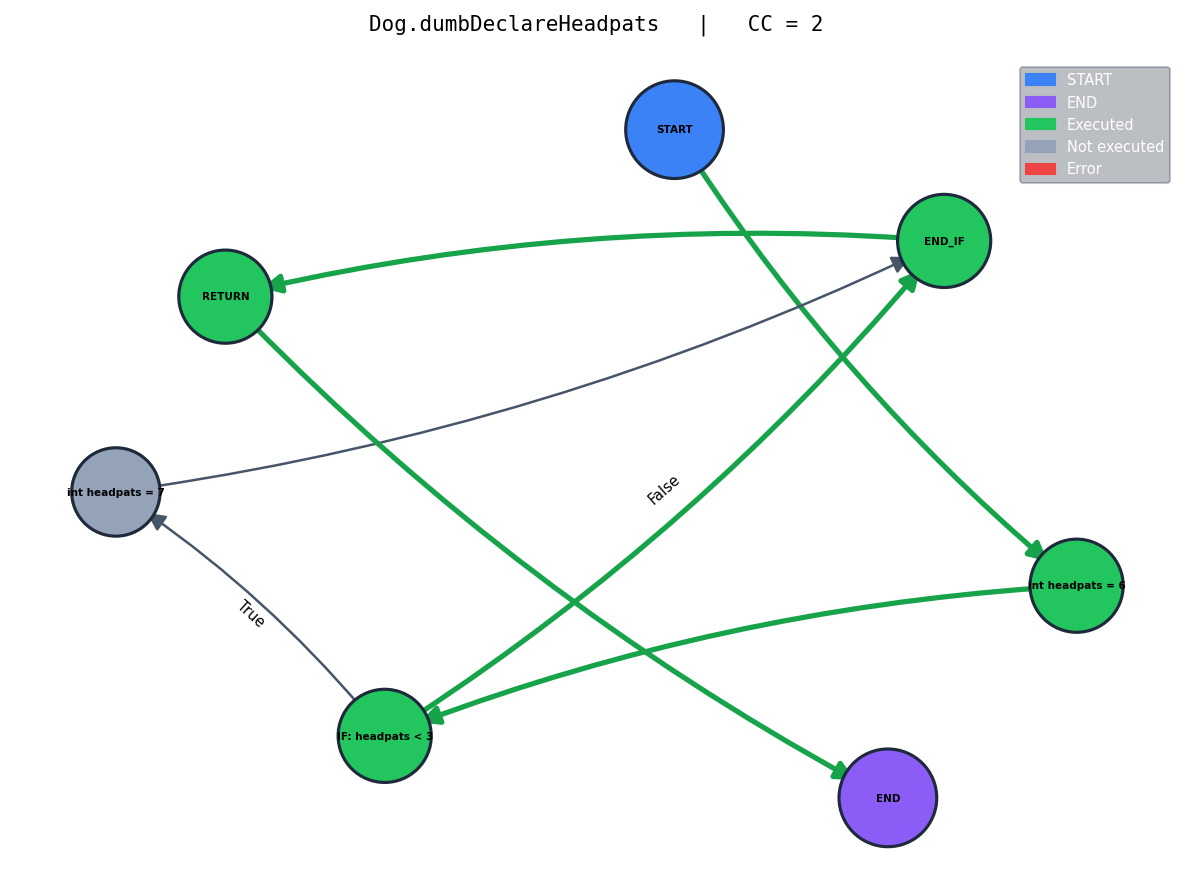
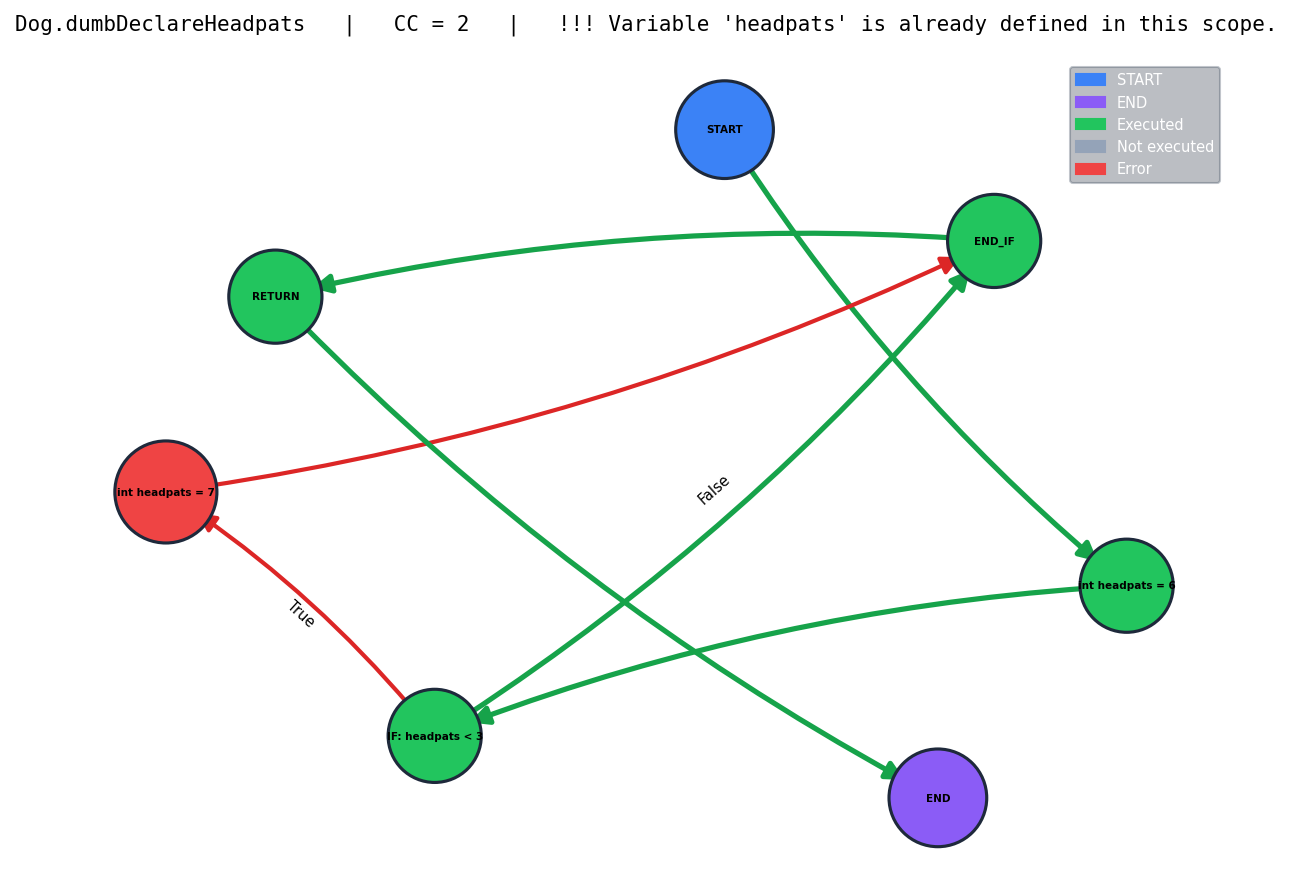
tests

diff --git a/main.py b/main.py
@@ -34,38 +34,11 @@ def run_lexer_tests():
         print(f'  [{status}] {fich}')
 
 
-def run_parser_tests():
+def run_cfg_tests():
     DIR = os.path.join(BASE_DIR, "tests", "02")
     if not os.path.exists(DIR):
         return
-    print("=== 02: PARSER ===")
-    for fich in sorted(f for f in os.listdir(DIR) if f.endswith('.java')):
-        lexer = JavaLexer()
-        with open(os.path.join(DIR, fich), 'r', newline='') as f:
-            source = f.read()
-
-        tokens = lexer.tokenize(source)
-        parser = JavaParser(filename=fich)
-        program = parser.parse(tokens)
-
-        out_path = os.path.join(DIR, os.path.splitext(fich)[0] + '.out')
-        if parser.errors:
-            with open(out_path, 'w') as f:
-                f.write('\n'.join(parser.errors))
-            print(f'  [ERRORS] {fich}')
-            for e in parser.errors:
-                print(f'    {e}')
-        else:
-            with open(out_path, 'w') as f:
-                f.write('OK')
-            print(f'  [OK] {fich}')
-
-
-def run_cfg_tests():
-    DIR = os.path.join(BASE_DIR, "tests", "03")
-    if not os.path.exists(DIR):
-        return
-    print("=== 03: CFG ===")
+    print("=== 02: Parser & CFG ===")
     OUTPUT_DIR = os.path.join(BASE_DIR, "cfg_output")
     all_graphs = {}
 
@@ -138,5 +111,4 @@ def _print_cc_table(graphs):
 
 if __name__ == '__main__':
     run_lexer_tests()
-    run_parser_tests()
     run_cfg_tests()

diff --git a/CFG.py b/CFG.py
@@ -85,15 +85,15 @@ class CFGBuilder:
             # have two edges (paths they can craete in the code)
             node = self.create_cfg_node(str(statement))
             self.graph.add_edge(self.current, node, label=labelling)
-            if execute and self.global_execution:
-                self.execution_path.append(node)
-                try:       
-                    statement.Type(self.scope)
-                except SemanticException as e:
-                    self.errors_method.append(str(e))
-                    self.errors.append(str(e))
-                    self.error_node = node
-                    self.global_execution = False
+            try:       
+                statement.Type(self.scope)
+                if execute and self.global_execution:
+                    self.execution_path.append(node)
+            except SemanticException as e:
+                self.errors_method.append(str(e))
+                self.errors.append(str(e))
+                self.error_node = node
+                self.global_execution = False
             self.current = node
 
     def handle_if(self, statement, labelling=None,execute=True):

diff --git a/Parser.py b/Parser.py
@@ -343,9 +343,9 @@ class JavaParser(Parser):
         return Ternary(condition=p[0],true=p[2],false=p[4],line=p.lineno)
     
     # casting
-    @_("'(' type ')' expression")
-    def expression(self, p):
-        return Cast(cast_type=p.type, expr=p.expression, line=p.lineno)
+    # @_("'(' type ')' expression")
+    # def expression(self, p):
+    #    return Cast(cast_type=p.type, expr=p.expression, line=p.lineno)
 
     # this
     @_("THIS")
